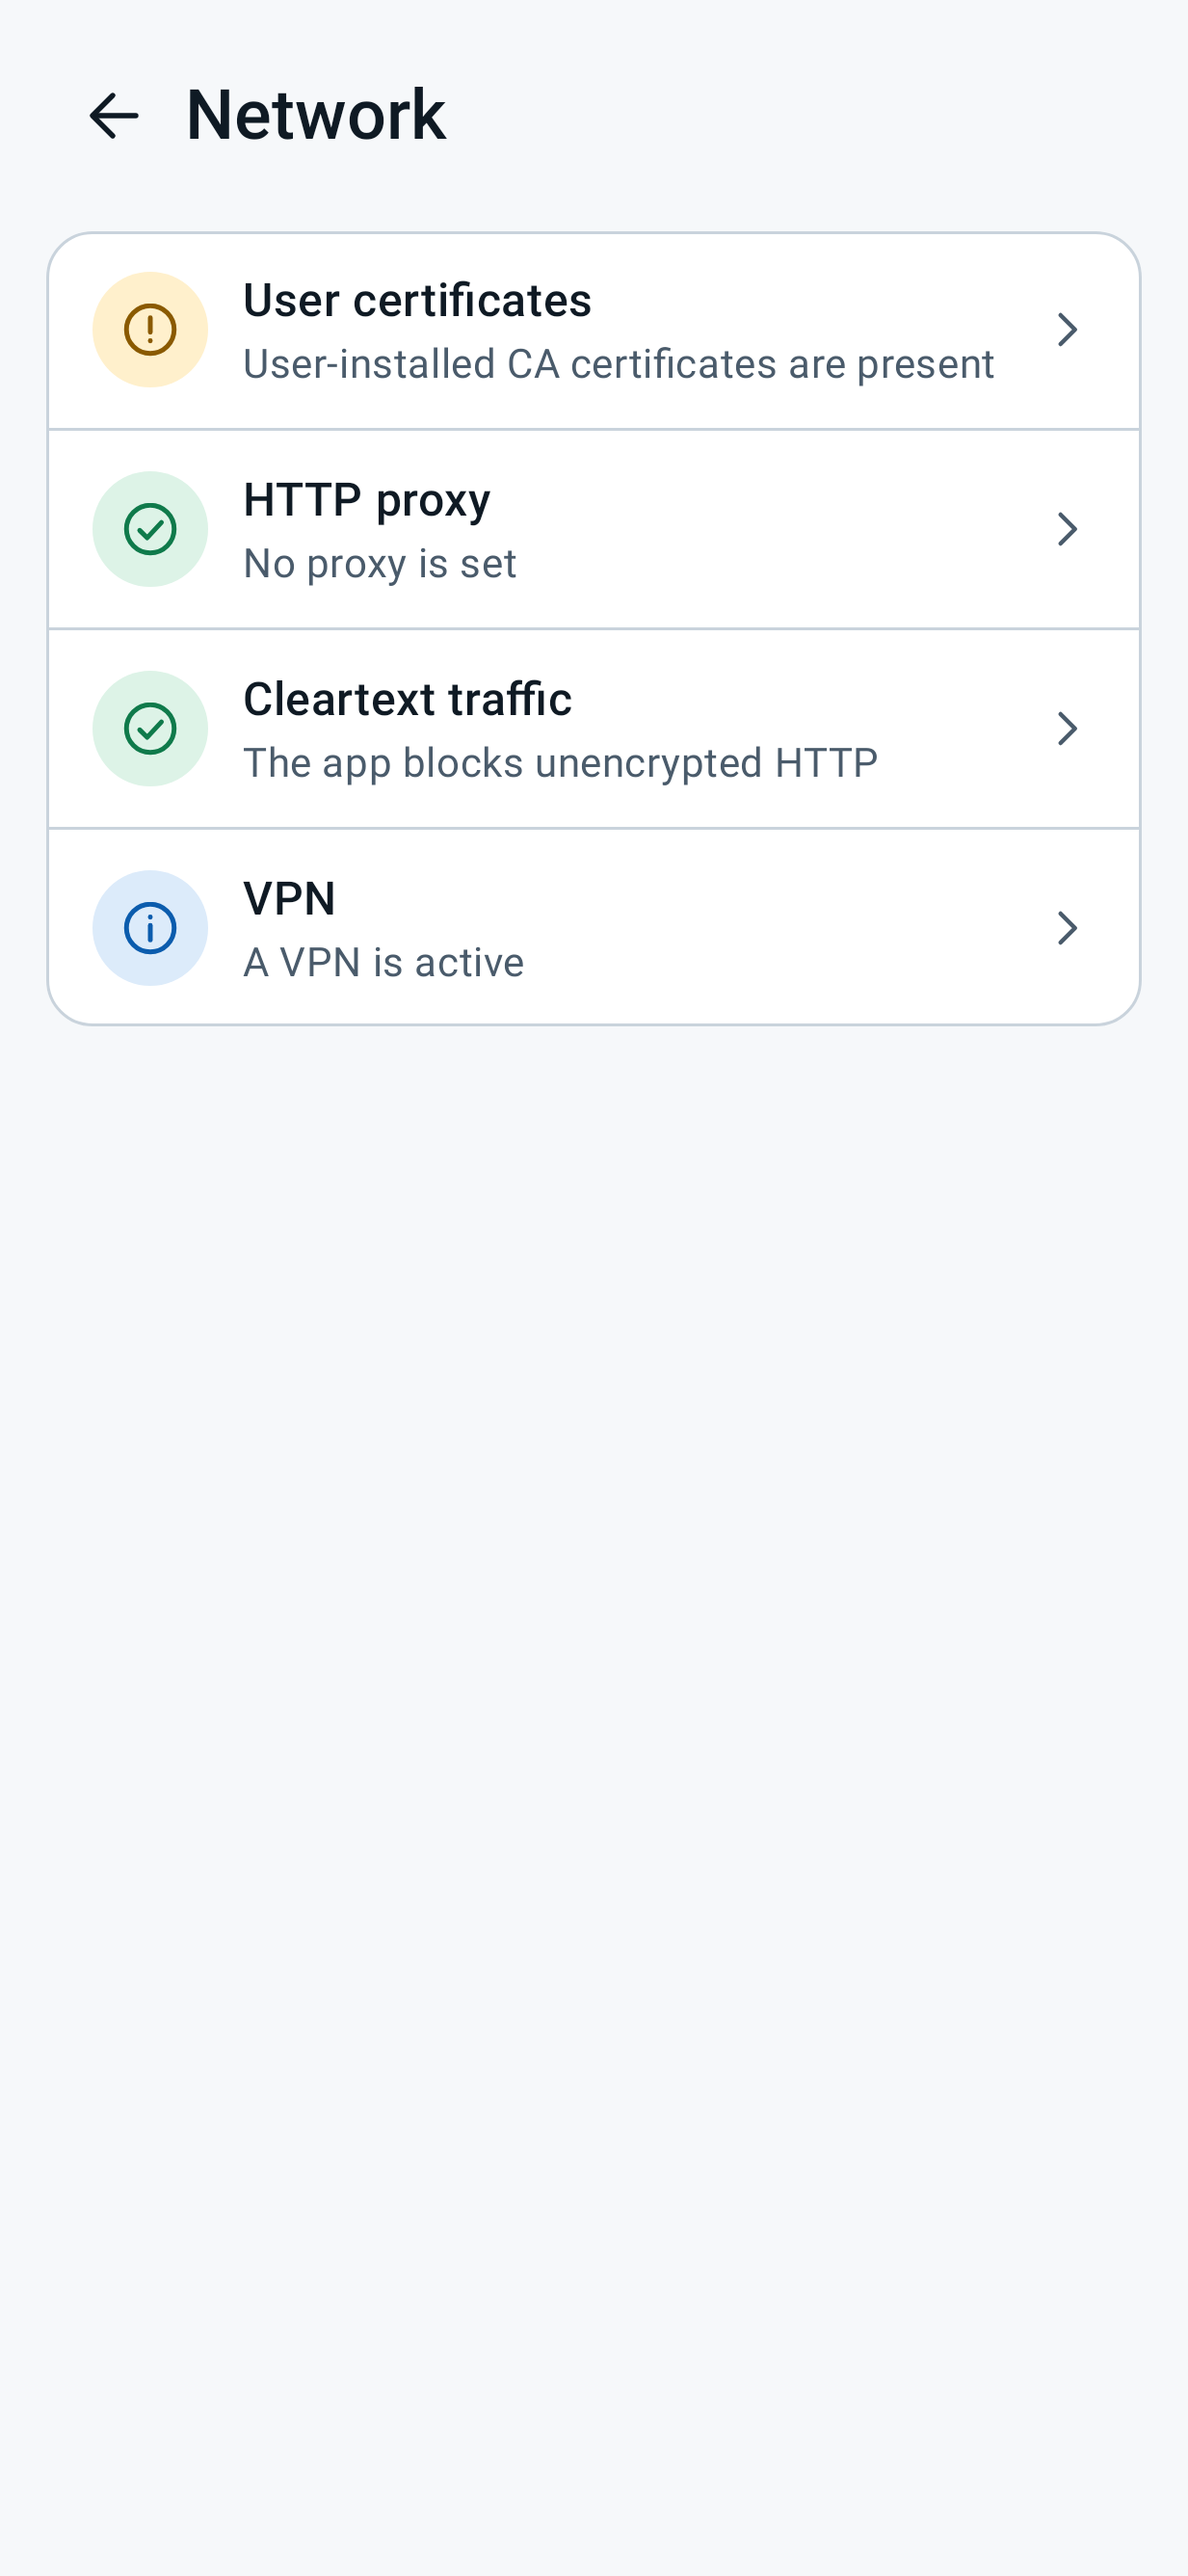
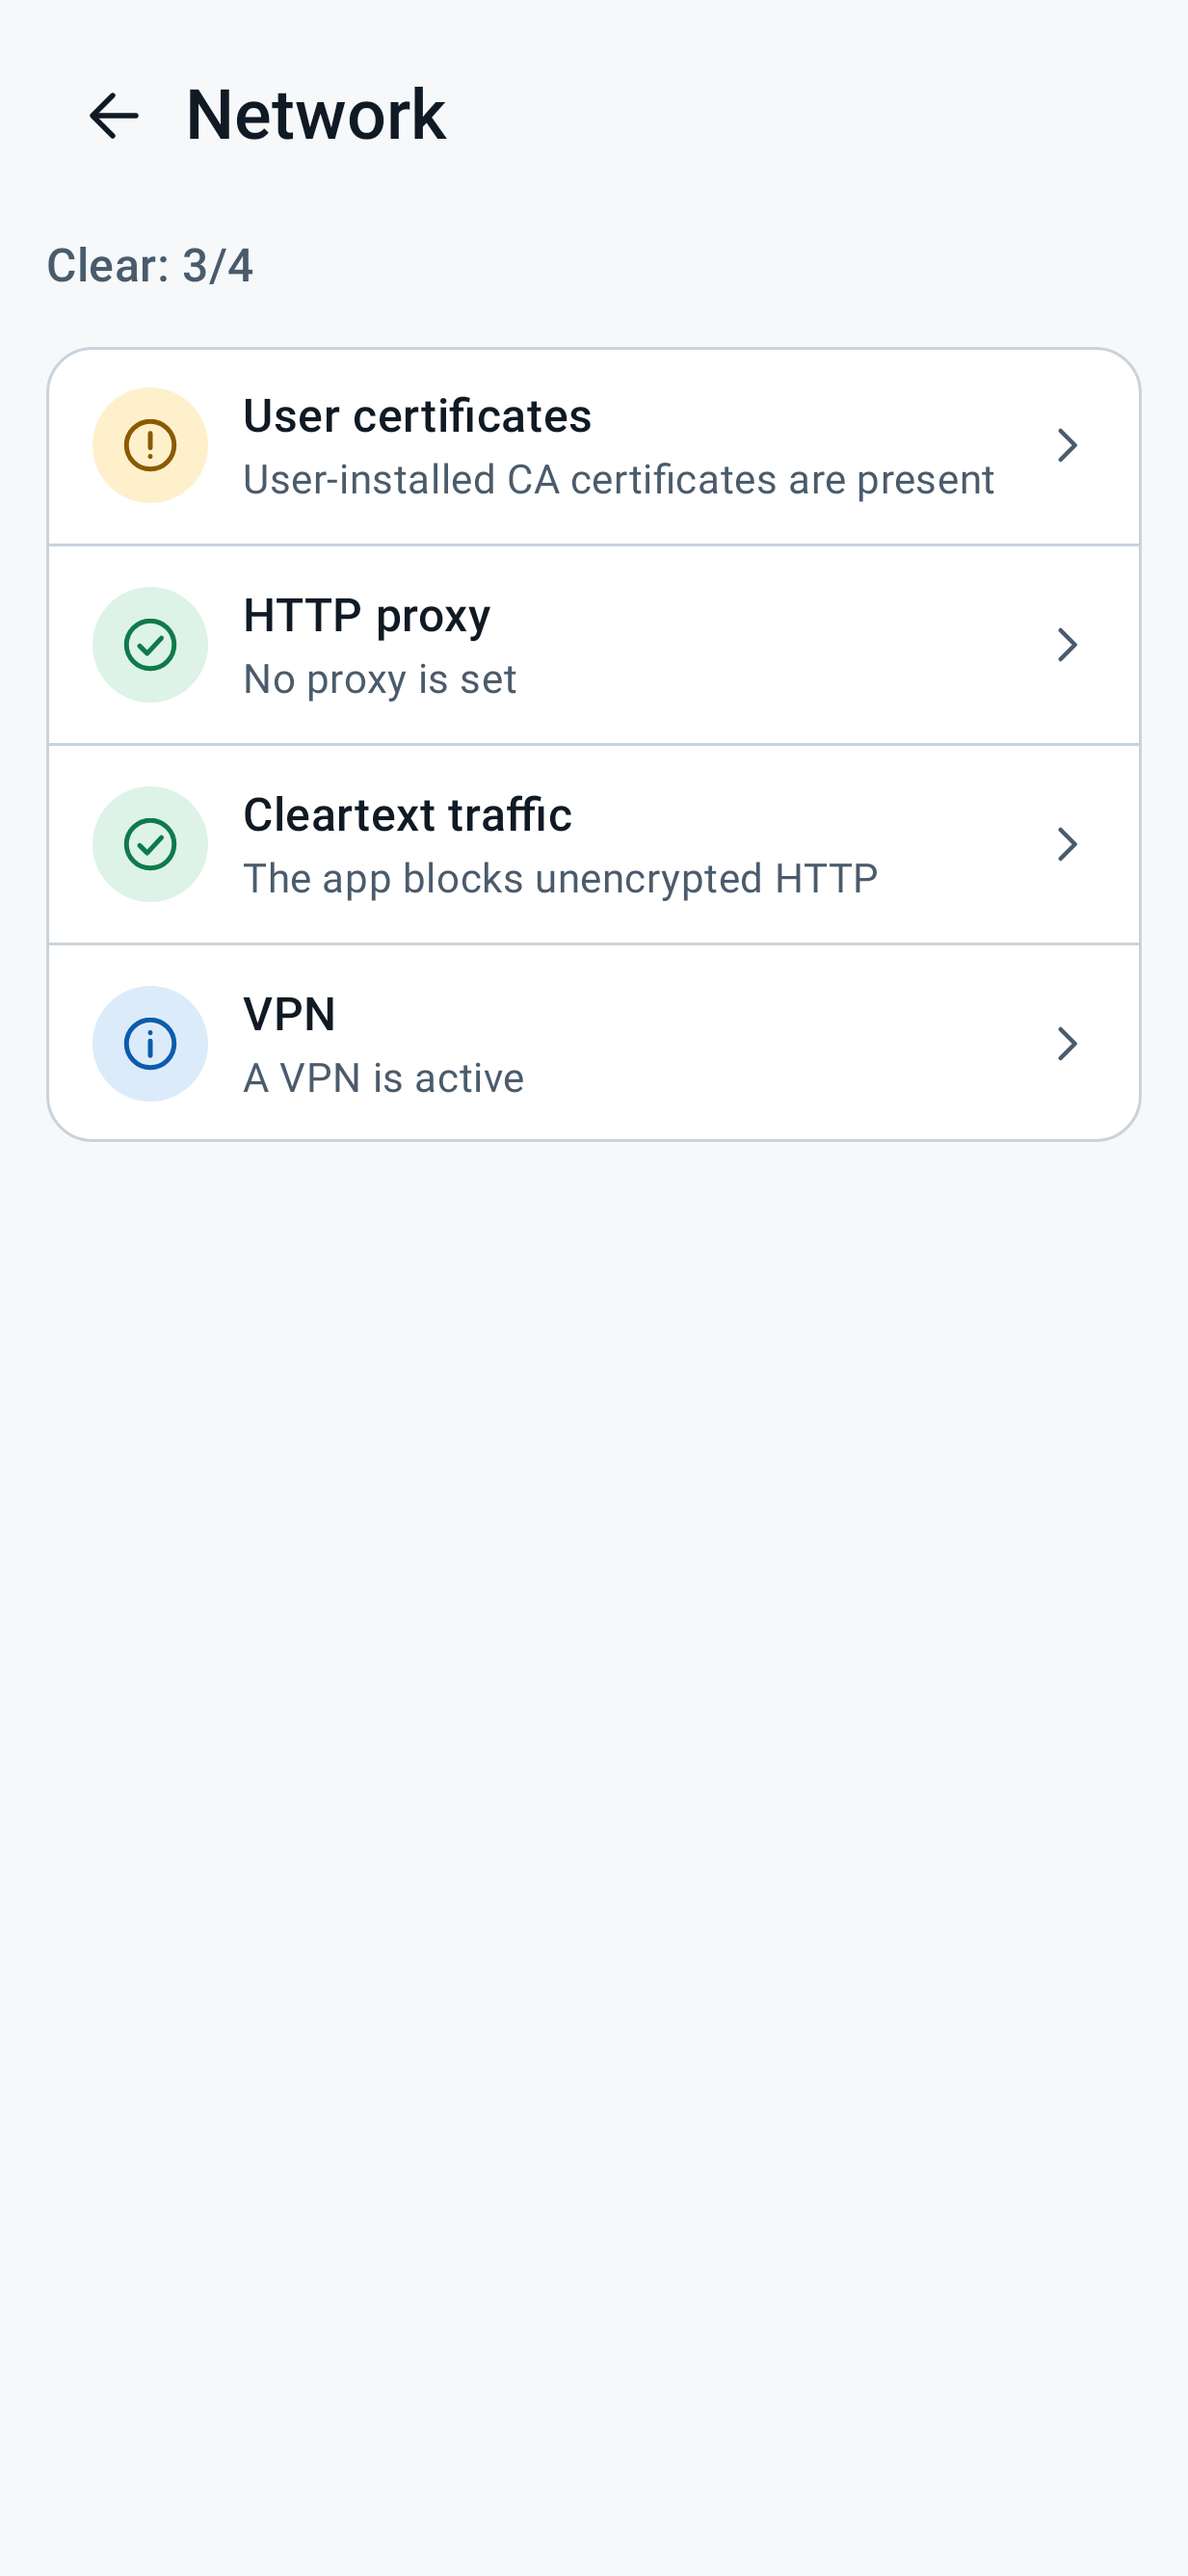
[DEV][MuhammedAli.KOCABEY][UI] Polish settings, detail sheet and category screens, fix history screenshot dates
Make the off state of switches visible, style Clear history as destructive, align the MASVS link with the text, add a clear-count summary to category screens and use a realistic date in the history fixture. Screenshots regenerated.

Changed region(s): [[0.0308, 0.0932, 0.8321, 0.4347], [0.5856, 0.1863, 0.8321, 0.2174], [0.5547, 0.3416, 0.6164, 0.3726]]

diff --git a/app/src/main/java/com/muhammedalikocabey/securecheck/presentation/settings/SettingsScreen.kt b/app/src/main/java/com/muhammedalikocabey/securecheck/presentation/settings/SettingsScreen.kt
@@ -1,5 +1,6 @@
 package com.muhammedalikocabey.securecheck.presentation.settings
 
+import androidx.compose.foundation.BorderStroke
 import androidx.compose.foundation.clickable
 import androidx.compose.foundation.layout.Arrangement
 import androidx.compose.foundation.layout.Box
@@ -17,12 +18,14 @@ import androidx.compose.foundation.lazy.LazyColumn
 import androidx.compose.foundation.selection.selectable
 import androidx.compose.foundation.selection.toggleable
 import androidx.compose.material3.AlertDialog
+import androidx.compose.material3.ButtonDefaults
 import androidx.compose.material3.HorizontalDivider
 import androidx.compose.material3.Icon
 import androidx.compose.material3.MaterialTheme
 import androidx.compose.material3.OutlinedButton
 import androidx.compose.material3.RadioButton
 import androidx.compose.material3.Switch
+import androidx.compose.material3.SwitchDefaults
 import androidx.compose.material3.Text
 import androidx.compose.material3.TextButton
 import androidx.compose.runtime.Composable
@@ -98,6 +101,8 @@ fun SettingsScreen(
                 OutlinedButton(
                     onClick = { confirmClear = true },
                     modifier = Modifier.fillMaxWidth().heightIn(min = 52.dp),
+                    colors = ButtonDefaults.outlinedButtonColors(contentColor = MaterialTheme.colorScheme.error),
+                    border = BorderStroke(1.dp, MaterialTheme.colorScheme.error),
                 ) { Text(stringResource(R.string.settings_clear)) }
             }
 
@@ -143,10 +148,13 @@ fun SettingsScreen(
             title = { Text(stringResource(R.string.settings_clear_title)) },
             text = { Text(stringResource(R.string.settings_clear_body)) },
             confirmButton = {
-                TextButton(onClick = {
-                    confirmClear = false
-                    actions.onClearHistory()
-                }) { Text(stringResource(R.string.settings_delete)) }
+                TextButton(
+                    onClick = {
+                        confirmClear = false
+                        actions.onClearHistory()
+                    },
+                    colors = ButtonDefaults.textButtonColors(contentColor = MaterialTheme.colorScheme.error),
+                ) { Text(stringResource(R.string.settings_delete)) }
             },
             dismissButton = {
                 TextButton(onClick = { confirmClear = false }) { Text(stringResource(R.string.settings_cancel)) }
@@ -199,7 +207,17 @@ private fun SwitchRow(
             RowDescription(description)
         }
         Spacer(Modifier.width(16.dp))
-        Switch(checked = checked, onCheckedChange = null, enabled = enabled)
+        Switch(
+            checked = checked,
+            onCheckedChange = null,
+            enabled = enabled,
+            // The default off state is a pale track on a pale card; give it a visible edge.
+            colors = SwitchDefaults.colors(
+                uncheckedThumbColor = MaterialTheme.colorScheme.onSurfaceVariant,
+                uncheckedTrackColor = MaterialTheme.colorScheme.surfaceVariant,
+                uncheckedBorderColor = MaterialTheme.colorScheme.onSurfaceVariant,
+            ),
+        )
     }
 }
 

diff --git a/app/src/main/java/com/muhammedalikocabey/securecheck/presentation/dashboard/CategoryScreen.kt b/app/src/main/java/com/muhammedalikocabey/securecheck/presentation/dashboard/CategoryScreen.kt
@@ -6,17 +6,21 @@ import androidx.compose.foundation.layout.PaddingValues
 import androidx.compose.foundation.layout.fillMaxSize
 import androidx.compose.foundation.layout.widthIn
 import androidx.compose.foundation.lazy.LazyColumn
+import androidx.compose.material3.MaterialTheme
+import androidx.compose.material3.Text
 import androidx.compose.runtime.Composable
 import androidx.compose.ui.Alignment
 import androidx.compose.ui.Modifier
 import androidx.compose.ui.res.stringResource
 import androidx.compose.ui.unit.dp
+import com.muhammedalikocabey.securecheck.R
 import com.muhammedalikocabey.securecheck.domain.model.Category
 import com.muhammedalikocabey.securecheck.domain.model.CheckResult
 import com.muhammedalikocabey.securecheck.domain.model.CheckStatus
 import com.muhammedalikocabey.securecheck.presentation.components.ResultList
 import com.muhammedalikocabey.securecheck.presentation.components.ScreenHeader
 import com.muhammedalikocabey.securecheck.presentation.content.labelRes
+import com.muhammedalikocabey.securecheck.presentation.theme.NumericStyle
 
 @Composable
 fun CategoryScreen(
@@ -44,6 +48,14 @@ fun CategoryScreen(
             verticalArrangement = Arrangement.spacedBy(16.dp),
         ) {
             item(key = "header") { ScreenHeader(stringResource(category.labelRes), onBack) }
+            item(key = "summary") {
+                val clear = results.count { it.status != CheckStatus.FINDING && it.status != CheckStatus.UNAVAILABLE }
+                Text(
+                    stringResource(R.string.category_clear, clear, results.size),
+                    style = MaterialTheme.typography.titleMedium.merge(NumericStyle),
+                    color = MaterialTheme.colorScheme.onSurfaceVariant,
+                )
+            }
             item(key = "list") { ResultList(ordered, onSelect = onSelectCheck) }
         }
     }

diff --git a/app/src/test/java/com/muhammedalikocabey/securecheck/presentation/SecureCheckAppTest.kt b/app/src/test/java/com/muhammedalikocabey/securecheck/presentation/SecureCheckAppTest.kt
@@ -40,6 +40,9 @@ import org.robolectric.annotation.Config
 import org.robolectric.annotation.GraphicsMode
 import java.io.File
 
+/** 2026-10-23 09:41 UTC, so the history screenshot shows a plausible date. */
+private const val SAMPLE_SCAN_MS = 1_792_748_460_000L
+
 @RunWith(AndroidJUnit4::class)
 @GraphicsMode(GraphicsMode.Mode.NATIVE)
 @Config(qualifiers = "w411dp-h891dp-xxhdpi")
@@ -63,7 +66,7 @@ class SecureCheckAppTest {
         }
         return ScanReport(
             id = "sample",
-            startedAtMs = 0,
+            startedAtMs = SAMPLE_SCAN_MS,
             durationMs = 1_200,
             device = DeviceSummary("Google", "Pixel 8", "15", 35, "2025-05-05"),
             app = AppSummary("2.0.0", 1, debug),
@@ -204,7 +207,7 @@ class SecureCheckAppTest {
     @Test
     fun `toolbar opens history and back returns to the dashboard`() {
         val newer = sampleReport()
-        val older = sampleReport().copy(id = "older", startedAtMs = -86_400_000)
+        val older = sampleReport().copy(id = "older", startedAtMs = SAMPLE_SCAN_MS - 86_400_000)
         var opened = 0
         showWith(ScanUiState.Done(newer), listOf(newer, older), actions = AppActions(onOpenHistory = { opened++ }))
         rule.onNodeWithContentDescription(string(R.string.action_history)).performClick()

diff --git a/app/src/main/java/com/muhammedalikocabey/securecheck/presentation/dashboard/DetailSheet.kt b/app/src/main/java/com/muhammedalikocabey/securecheck/presentation/dashboard/DetailSheet.kt
@@ -2,6 +2,7 @@ package com.muhammedalikocabey.securecheck.presentation.dashboard
 
 import androidx.compose.foundation.layout.Arrangement
 import androidx.compose.foundation.layout.Column
+import androidx.compose.foundation.layout.PaddingValues
 import androidx.compose.foundation.layout.Row
 import androidx.compose.foundation.layout.fillMaxWidth
 import androidx.compose.foundation.layout.heightIn
@@ -120,6 +121,8 @@ fun DetailSheet(result: CheckResult, onDismiss: () -> Unit, onRerun: () -> Unit)
                     TextButton(
                         onClick = { runCatching { uriHandler.openUri("$MASVS_CONTROLS$control/") } },
                         modifier = Modifier.heightIn(min = 48.dp),
+                        // No start padding, so the label lines up with the text above it.
+                        contentPadding = PaddingValues(end = 12.dp),
                     ) { Text(stringResource(R.string.action_open_standard)) }
                 }
             }
